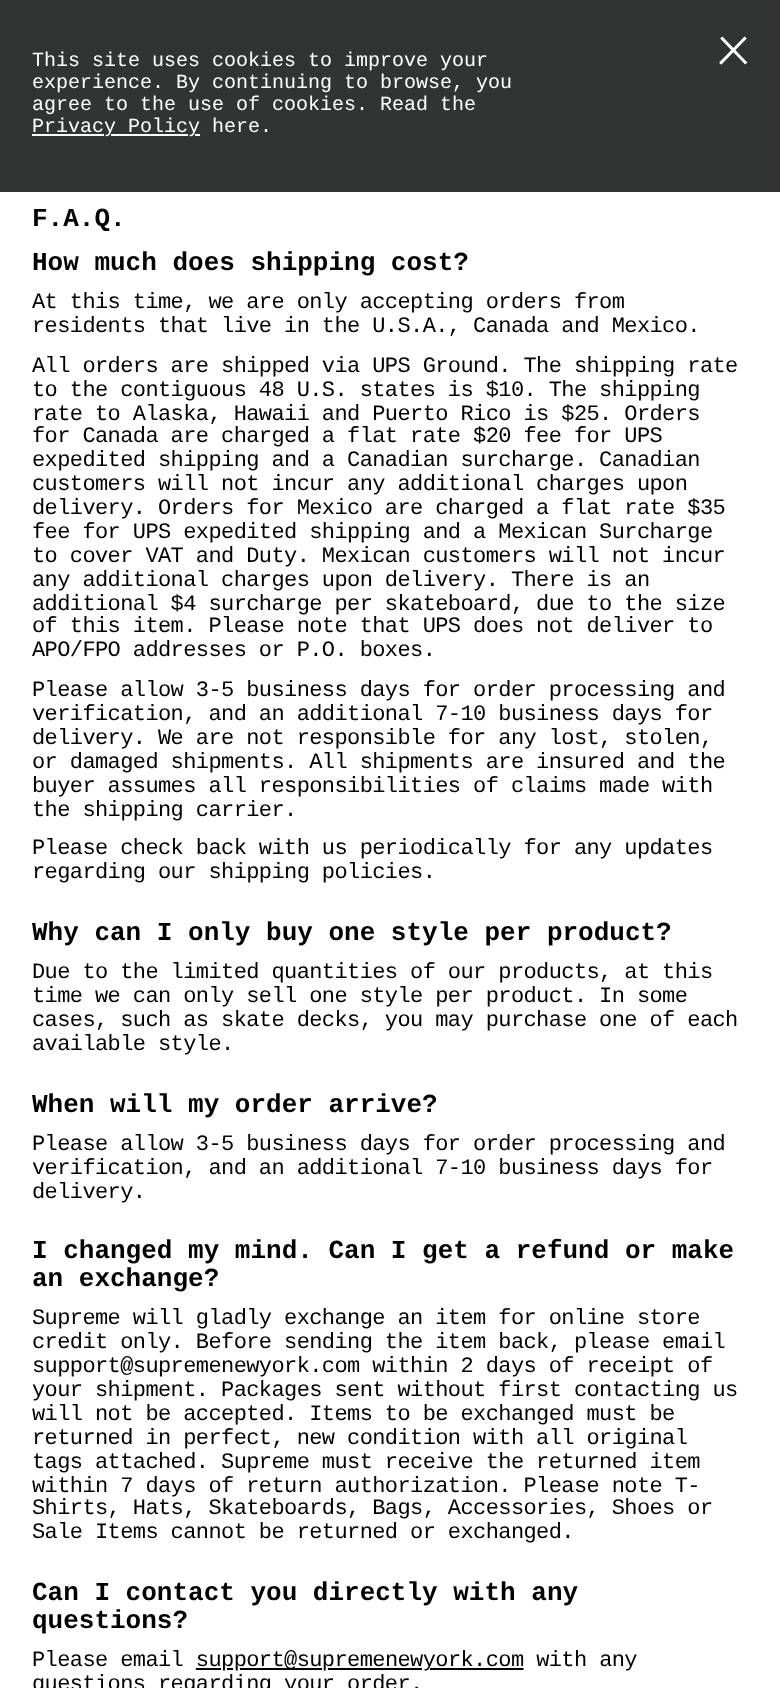
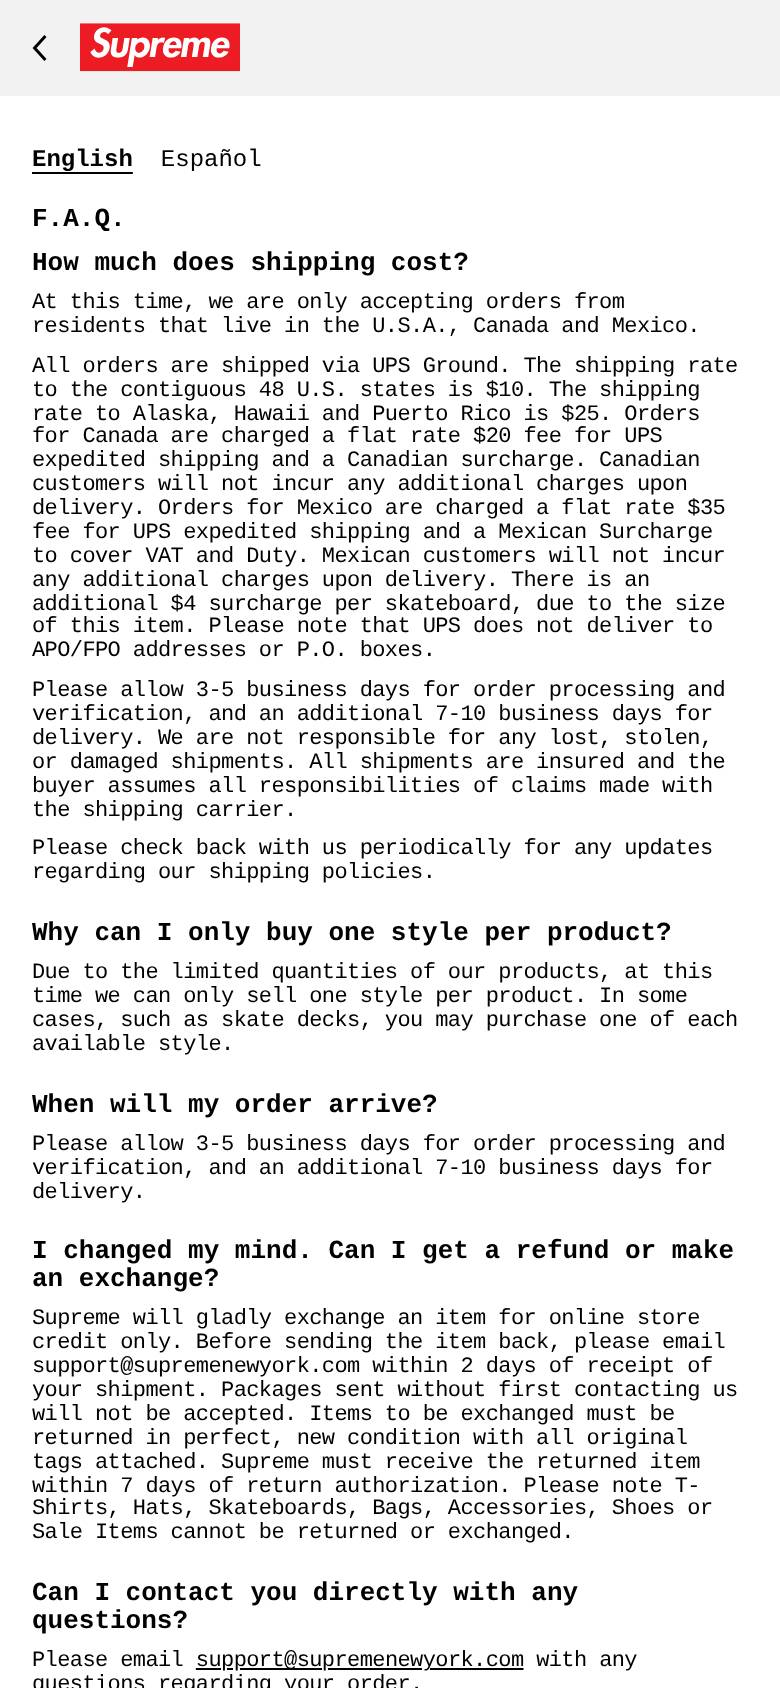
Captures sections marque & drop (agent terminé)
Claude-Session: https://claude.ai/code/session_01Ftz5kvmxR8eofxjoGgk2QF

Changed region(s): [[0.0, 0.0, 1.0, 0.1232]]

diff --git a/research/sections/notes-marque.md b/research/sections/notes-marque.md
@@ -1,0 +1,95 @@
+# Benchmark sections marque & drop — notes
+
+Captures du 01/11/2026. Mobile = 390×844 (iPhone UA, fr-FR) ; desktop = 1440×900. Fichiers : `<section>/<marque>-m.jpg` / `-d.jpg` (`-2`, `-menu`, `-intro` = vues supplémentaires).
+Attention : l'IP de sortie est géolocalisée US → plusieurs sites servent leur store US (Vollebak, Palace, Stutterheim, Supreme : prix en $).
+Le fichier `11-faq/chromaride-m.jpg` ne vient pas de cette passe (autre agent) : je n'y ai pas touché.
+
+---
+
+## 01-header-annonce
+
+| marque | fichier(s) | URL | ce qui est fort | comment l'adapter à notre marque/cible | à éviter |
+|---|---|---|---|---|---|
+| Corteiz | corteiz-m.jpg, corteiz-m-menu.jpg, corteiz-d.jpg | https://www.corteiz.com/ | Header noir à 3 éléments (burger jaune / logo centré / panier), avec la même couleur d'accent partout : très identitaire et lisible au pouce. | Burger, étoile 4 branches centrée, sac. Une seule couleur d'accent, celle qui « apparaît sous la pluie », sur fond noir. | Le menu plein écran avec 15 catégories : on vend un seul produit, donc 3–4 liens maximum. |
+| Entire Studios | entirestudios-m.jpg, entirestudios-m-menu.jpg, entirestudios-d.jpg | https://www.entirestudios.com/ | Header 100 % texte en minuscules (« menu · entire studios · usd · bag (0) ») sous une barre d'annonce monospace « FW26. shop the new collection ». | Barre d'annonce monospace façon terminal : « DROP 01 — précommandes ouvertes · 4 jours ». Header en texte seul : ça fait marque indé, pas template Shopify. | Les caractères trop petits et trop gris : sur mobile en plein soleil (riders), il faut du contraste. |
+| Warren Lotas | warrenlotas-m.jpg, warrenlotas-d.jpg | https://www.warrenlotas.com/ | Le champ email est intégré DANS la barre d'annonce (« EMAIL FOR DROP ALERTS → »), avec une croix pour fermer. | Idéal en phase waitlist : « Accès anticipé au drop → [email] » dans la barre du haut, refermable. | Faire cohabiter ça avec une pop-up newsletter : on garde un seul point de capture. |
+| Pas Normal Studios | pasnormal-m.jpg, pasnormal-d.jpg | https://pasnormalstudios.com/eu | Le marquee d'annonce porte le teaser du prochain drop (« x Salomon coming soon. Sign up ») par-dessus un header transparent posé sur la photo. | Marquee : « Drop 01 dans 3j 14h — Rejoins la liste ». Header transparent sur le hero vidéo de pluie. | Mettre 3 messages qui défilent (promo, livraison, teaser) : on garde le seul message du drop. |
+| Broken Planet | brokenplanet-m.jpg, brokenplanet-d.jpg | https://www.brokenplanet.com/ | Fond anthracite, logo custom, barre d'annonce rose courte (« Free Shipping Over $200+ »), drapeau pays + sac. | Utile pour l'idée « livraison offerte FR » sur une ligne et le drapeau FR rassurant. | La barre d'onglets catégories, inutile en mono-produit. |
+
+## 02-hero
+
+| marque | fichier(s) | URL | ce qui est fort | comment l'adapter à notre marque/cible | à éviter |
+|---|---|---|---|---|---|
+| ICON Motosports | icon-m.jpg, icon-m-2.jpg, icon-d.jpg, icon-d-2.jpg | https://www.rideicon.com/ | Hero cinématique nocturne et animé (moto, phares, flou de vitesse), avec le logotype « MIDNIGHT » en chrome/feu et un CTA filaire. | C'est notre univers rider : boucle vidéo de nuit, pluie + éclairage urbain, la veste noire qui se colore. Titre court en gros, un seul CTA. | Le 2e bloc catégorie (« /HELMETS ») collé sous le hero : chez nous, enchaîner directement sur l'effet. |
+| Rains | rains-m.jpg, rains-d.jpg | https://fr.rains.com/ | Typo géante (« Winter: Volume I ») sur le mannequin, sous-titre court, 2 boutons pilule. | Typo XXL du type « NOIR. JUSQU'À LA PLUIE. » sur le porté. Sur mobile, une ligne de typo qui déborde volontairement. | Deux CTA (femme/homme) : on garde « Rejoindre le drop » / « Précommander » seul. |
+| Vollebak | vollebak-m.jpg, vollebak-m-2.jpg, vollebak-d.jpg, vollebak-d-2.jpg | https://vollebak.com/ | Produit seul sur aplat de couleur saturée (jaune) avec une accroche à angle narratif (« Welcome Back to the Stone Age »). | Après le hero sombre, un bloc « veste sur aplat » qui révèle la couleur cachée : ça montre l'effet avant/après sans texte. | Les pop-ups d'inscription qui recouvrent le hero au bout de 8 s (vu en capture). |
+| Hellstar | hellstar-m.jpg, hellstar-m-2.jpg, hellstar-d.jpg, hellstar-d-2.jpg | https://hellstar.com/ | Vidéo sombre très montée (flou, feu) avec un nom en néon rouge (« MAKAI LEMON ») : énergie streetwear. | Typo néon/rétroéclairée sur fond noir pour le nom du drop. Montage rythmé façon TikTok dans les 3 premières secondes. | Les frames floues : sur mobile, la 1re image doit être nette et lisible (vérifié : -m.jpg est flou). |
+| Entire Studios | entirestudios-m.jpg, entirestudios-m-2.jpg, entirestudios-d.jpg, entirestudios-d-2.jpg | https://www.entirestudios.com/ | Vidéo éditoriale claire, titre « HUGO X ES » en mono fin, CTA pilule discret. | Inspiration pour la version « lookbook » (portés en studio) quand le drop est fermé. | Le titre fin blanc sur fond clair : lisibilité faible sur mobile. |
+
+## 03-drop-compteur
+
+Aucun compte à rebours qui défile en direct trouvé le 01/11/2026 sur les sites testés. Les références ci-dessous sont les mécaniques réelles les plus proches : date/heure, horloge live, compteur d'acheteurs, page « SOON », sold-out.
+
+| marque | fichier(s) | URL | ce qui est fort | comment l'adapter à notre marque/cible | à éviter |
+|---|---|---|---|---|---|
+| Travis Scott (Cactus Jack shop) | travisscott-soon-m.jpg, travisscott-soon-d.jpg | https://shop.travisscott.com/ | Page de pré-drop ultra nue : logo, « SOON », email + téléphone (SMS) + case CGU, « SIGN UP ». Zéro distraction. | Notre page waitlist : étoile, « DROP 01 — BIENTÔT », email + SMS (les riders ratent les mails), puis un compteur au-dessus. | Le vide total sans visuel produit : ajouter une boucle de l'effet pluie pour donner envie. |
+| MSCHF — King Solomon's Baby | mschf-kingsolomonsbaby-m.jpg, mschf-kingsolomonsbaby-d.jpg | https://kingsolomonsbaby.com/ | Compteurs façon tableau d'affichage (« NUMBER OF BUYERS 1000 », « EACH BUYER WILL PAY $100 »), bandeau « SALE ENDED 07/10/25 5PM EST » et bouton « Sold Out » grisé. | Compteur de stock réel en chiffres segmentés (« 312 / 500 vestes ») + fin du drop en date/heure Paris ; même module qui bascule en « SOLD OUT ». | Le concept trop conceptuel/arty : chez nous, le compteur doit rester factuel (vraie quantité). |
+| MSCHF — liste des drops | mschf-upcoming-m.jpg, mschf-upcoming-d.jpg | https://mschf.com/ | Liste numérotée de tous les drops (#120…#125) suivie des drops futurs en « ?????????? » : mystère + historique. | Page « Drops » : #01 = la veste hydrochromique, #02/#03 = « ??????? ». Ça installe la marque comme une série de drops. | Le défilement infini de 125 items, illisible sur mobile. |
+| Nike SNKRS — Prochaines sorties | nike-snkrs-upcoming-m.jpg, nike-snkrs-upcoming-d.jpg | https://www.nike.com/fr/launch/upcoming | Calendrier en français « Disponible le 06/11 à 9:00 » + bouton noir « Me prévenir » sur chaque carte. Desktop : grosses dates (6 nov.). | Formulation et format à copier pour le FR : « Ouverture le 14/11 à 18:00 » + « Me prévenir » (email/SMS). | L'interface très corporate/blanche : à transposer en dark. |
+| Supreme — Preview FW26 | supreme-preview-m.jpg, supreme-preview-d.jpg | https://www.supreme.com/previews/fallwinter2026 | Preview de toute la saison en mosaïque avant les drops ; horloge live « 11/01/2026 02:15am NYC » sous le logo (desktop). | Une horloge « HEURE DE PARIS 18:42:07 » sous le logo pendant le drop crée l'urgence sans compteur agressif ; mosaïque des coloris révélés. | La mosaïque de 50 vignettes : on n'a qu'un produit, donc plutôt 6 à 9 frames de l'effet. |
+| Palace — mur sold-out | palace-soldout-m.jpg | https://usa.palaceskateboards.com/collections/all | Grille où chaque produit affiche « SOLD OUT » sous le nom : la preuve de rareté sert de contenu. | État après le drop : tailles barrées + « ÉPUISÉ — Drop 02 bientôt » + capture email, plutôt qu'une page vide. | Laisser le sold-out sans action suivante (pas de waitlist). |
+| Pas Normal Studios x Salomon | pasnormal-salomon-teaser-m.jpg, pasnormal-salomon-teaser-d.jpg | https://pasnormalstudios.com/eu | Hero teaser « Coming soon… limited edition » + « DISCOVER MORE », relayé dans la barre d'annonce. | Teaser J-7 : hero vidéo + « Bientôt. Édition limitée. » + inscription. Cohérent du header jusqu'au hero. | CTA « Discover more » vague : préférer « Accès anticipé ». |
+| Vollebak — advance access | vollebak-advanceaccess-m.jpg | https://vollebak.com/ | Pop-up « Sign up for advance access to every new release » : bon wording de l'accès anticipé, bouton rouge plein. | Le wording « Accès anticipé à chaque drop » plutôt que « Newsletter -10 % ». | La pop-up au bout de 8 s par-dessus le hero : on la remplace par un bandeau ou par la page waitlist. |
+
+## 09-preuve-sociale
+
+| marque | fichier(s) | URL | ce qui est fort | comment l'adapter à notre marque/cible | à éviter |
+|---|---|---|---|---|---|
+| Represent | represent-reviews-m.jpg, represent-reviews-d.jpg | https://representclo.com/pages/reviews | Note énorme « 4.9 ★ » + « Based on 12171 reviews », onglets Site/Product, cartes « Verified Buyer » + produit concerné. | Au lancement, pas encore d'avis : prévoir le module (note + « acheteur vérifié ») pour le drop 02. En attendant, les retours des testeurs riders. | Un faux volume d'avis au lancement : risque de crédibilité et légal (DGCCRF). |
+| Vollebak | vollebak-press-m.jpg, vollebak-press-d.jpg, vollebak-press-d-2.jpg | https://vollebak.com/ | Carrousel presse : une citation courte (« Brilliantly bonkers ») + logo du média (THE TIMES, WIRED, TIME) et le titre « 2X winners of… ». | Citations courtes de médias/créateurs FR (Konbini, Hypebeast FR, un youtubeur moto) avec logo en blanc sur noir, une seule à la fois. | Des logos sans citation (mur de logos) : moins crédible et moins « marque ». |
+| Alo Yoga | alo-ugc-m.jpg, alo-ugc-d.jpg | https://www.aloyoga.com/ | « AS SEEN ON YOU — styled by you » : carrousel de photos clients avec @handle et hotspots « + » shoppables. | Carrousel « VU SOUS LA PLUIE » : vidéos TikTok/IG des acheteurs (avant/après mouillé), avec @handle. C'est le format natif de notre cible. | Les photos lifestyle lisses : nous, il faut du brut filmé au téléphone, sur le scooter. |
+| Corteiz — Archive | corteiz-archive-m.jpg, corteiz-archive-d.jpg | https://www.corteiz.com/blogs/archive | Journal photo de la communauté (collabs, events, riders sur moto) en grille noire, dates monospace jaunes. | Page « ARCHIVE / COMMUNAUTÉ » : photos datées des rides, des meetups et du drop, au même style mono + accent. | Une page sans aucun texte de contexte : ajouter une légende d'une ligne. |
+
+## 10-manifeste
+
+| marque | fichier(s) | URL | ce qui est fort | comment l'adapter à notre marque/cible | à éviter |
+|---|---|---|---|---|---|
+| Vollebak | vollebak-about-m.jpg, vollebak-about-m-2.jpg, vollebak-about-d.jpg | https://vollebak.com/en-us/pages/about-us | Vidéo « Play » géante, puis une phrase-manifeste énorme (« We design clothes for the next century, not the next season ») et un court paragraphe fondateurs. | Une phrase forte en très gros (« Noire par défaut. Vivante sous la pluie. »), puis 3 lignes sur l'origine. | Le texte long à la suite : sur mobile, max 60–80 mots. |
+| ICON Motosports | icon-about-m.jpg, icon-about-d.jpg, icon-about-d-2.jpg | https://www.rideicon.com/about-us | Ton « riders pour riders » (« unforgiving asphalt… inattentive cagers… Ride Among Us »), photo moto pleine largeur, fond rayé. | Parler la langue du trajet urbain : bouchons, pluie, périph, livreurs ; une signature-slogan en fin de texte. | Le pavé centré en corps moyen : le découper en phrases courtes. |
+| Deus Ex Machina | deus-about-m.jpg, deus-about-m-2.jpg, deus-about-d.jpg | https://deuscustoms.com/pages/about | Manifeste numéroté (1, 2, 3, 4) en paragraphes courts, alterné avec des photos d'atelier et de culture moto. | Structure « 4 règles de la marque » numérotées, chacune avec une photo (pluie, nuit, ville, communauté). | Le bouton latéral « GET 20% OFF » qui casse le ton manifeste. |
+| Stutterheim | stutterheim-about-m.jpg, stutterheim-about-d.jpg | https://stutterheim.com/en-us/about-us | Visuel encre/tampon bleu très graphique + « We are the original premium raincoat » : positionnement en une phrase. | Notre phrase de positionnement : « La première veste de pluie qui change de couleur », avec un visuel graphique (empreinte de pluie). | Le paragraphe justifié en petit corps, peu lisible sur mobile. |
+| Rains | rains-world-m.jpg, rains-world-m-2.jpg, rains-world-d.jpg | https://fr.rains.com/pages/company | Hub éditorial « Rains World » : intro de marque + filtres pilule (Latest/Retail/Runway/Stores) + grilles d'images. | Plus tard (après plusieurs drops), un hub « Monde » : drops, rides, coulisses. Au lancement, une seule page suffit. | Le hub vide ou trop corporate au lancement. |
+| Heliot Emil | heliotemil-about-m-intro.jpg, heliotemil-about-d-intro.jpg | https://heliotemil.com/pages/about | Manifeste en accordéon numéroté (01 Introduction / 02 Foundation / 03 Future) : minimal, très mode. | Pour garder le manifeste court sur mobile : 01 Pourquoi / 02 La technologie / 03 Le drop, en accordéon. | Le texte gris minuscule, trop discret pour une cible TikTok. |
+
+## 11-faq
+
+| marque | fichier(s) | URL | ce qui est fort | comment l'adapter à notre marque/cible | à éviter |
+|---|---|---|---|---|---|
+| Satisfy | satisfy-m.jpg, satisfy-m-2.jpg, satisfy-d.jpg | https://satisfyrunning.com/pages/faq | Questions en capitales grasses, accordéons « + / – », sections (ORDERS, SHIPPING) en gros titres : très lisible au pouce. | Notre format FAQ : catégories DROP / PRÉCOMMANDE / EFFET & ENTRETIEN / LIVRAISON, questions en capitales grasses blanches sur noir. | Les réponses en italique petit corps. |
+| Supreme | supreme-m.jpg, supreme-d.jpg | https://us.supreme.com/pages/faq | FAQ brute en monospace, réponses franches, dont « Why can I only buy one style per product? Due to the limited quantities… ». | Reprendre la franchise sur les règles du drop : « Pourquoi 1 veste par personne ? », « Que se passe-t-il si c'est épuisé ? ». | Le mur de texte sans accordéon sur mobile. |
+| Awake NY | awakeny-m.jpg, awakeny-m-2.jpg, awakeny-d.jpg | https://awakenyclothing.com/pages/faq | FAQ sobre en capitales fines, sous-navigation (FAQs/About/Contact…), et footer bleu électrique plein avec le logo-globe. | Pied de FAQ en aplat de notre couleur révélée (le seul bloc coloré du site, comme la pluie qui révèle). | Les questions en très petit corps sur mobile. |
+| Pas Normal Studios | pasnormal-m.jpg, pasnormal-d.jpg | https://pasnormalstudios.com/eu/pages/faq | Gros titre « Frequently Asked Questions » + chapeau rassurant + renvoi au service client, puis sections avec « + ». | Chapeau d'une phrase : « Une question sur le drop ? On répond en moins de 24 h », avec un lien WhatsApp/Instagram DM. | Rien de majeur ; c'est juste un peu neutre. |
+| Daily Paper | dailypaper-m.jpg, dailypaper-d.jpg | https://dailypaperclothing.com/pages/faq | FAQ en français avec barre de recherche, catégories (Sale Périodes, Produits…), rangées alternées grises et réponse ouverte. | Bonne référence de formulation FR (« Le produit que je recherche est en rupture de stock. Sera-t-il réapprovisionné ? ») à adapter au drop. | Le badge flottant « Get 10% Off » qui masque les questions. |
+
+## 12-footer-newsletter
+
+| marque | fichier(s) | URL | ce qui est fort | comment l'adapter à notre marque/cible | à éviter |
+|---|---|---|---|---|---|
+| Corteiz | corteiz-m.jpg, corteiz-d.jpg | https://www.corteiz.com/ | Footer minuscule et centré : icône Instagram, ARCHIVE, NEWSLETTER, SHIPPING POLICY, TERMS, en mono jaune sur noir. | Un footer mono-produit doit faire 5 lignes : IG/TikTok, Drops, FAQ, Livraison & retours, CGV/mentions. | Le lien « Newsletter » caché : chez nous, le champ email reste visible. |
+| ICON Motosports | icon-m.jpg, icon-m-2.jpg, icon-d.jpg | https://www.rideicon.com/ | Footer noir à rayures diagonales, newsletter nommée « LIMITER NEWS & UPDATES » avec un champ arrondi, mur Instagram juste au-dessus. | Donner un nom à la liste (« LA LISTE / RAIN CLUB »), texture diagonale = pluie, mur UGC juste au-dessus du footer. | Les 4 colonnes de liens catalogue. |
+| Pando Moto | pandomoto-m.jpg, pandomoto-d.jpg | https://pandomoto.com/ | « ENGINEERED BY RIDERS© / JOIN RIDERS — updates on drops, sales & events », champ souligné + bouton noir plein, accordéons de liens sur mobile. | Le wording rider est parfait pour nous : « REJOINS LES RIDERS — accès anticipé aux drops ». Accordéons de liens sur mobile. | Le fond gris clair, hors de notre univers dark. |
+| Trapstar | trapstar-m.jpg, trapstar-d.jpg | https://uk.trapstarlondon.com/ | « NOW, THE NEXT CHAPTER BEGINS. IT'S A SECRET » + « SIGN UP TO BE THE FIRST TO KNOW » + « Join the list » : la newsletter vendue comme un secret. | Bloc avant le footer : « LE PROCHAIN DROP EST UN SECRET. Sois le premier au courant. » + email + SMS. | Les mentions légales trop longues sous le bouton : 1 ligne + lien suffit (RGPD). |
+| Supreme | supreme-m.jpg, supreme-d.jpg | https://us.supreme.com/pages/shop | Footer en liens texte minuscules sur une ligne (shop, preview, lookbook, news, f.a.q., mailing list) et horloge NYC live (desktop). | Footer texte minimal + horloge « Paris » : clin d'œil drop. | La liste de 13 catégories au-dessus (mobile). |
+| Stutterheim | stutterheim-m.jpg | https://stutterheim.com/en-us/about-us | Newsletter avec segmentation par cases (Women/Men/All) + gros tampon « Manufactured by STUTTERHEIM 2010 » qui signe le footer. | Un tampon de marque en fin de page (étoile + « Drop 01 — Paris 2026 ») ; segmentation possible par véhicule (scooter/moto/vélo). | Trop de champs : email seul, plus un SMS optionnel. |
+| MSCHF (store) | mschf-store-m.jpg, mschf-store-d.jpg | https://store.mschf.com/ | Le footer pousse ses canaux propres (MSCHF APP, STORE APP, INSTA, TIKTOK, SNAP) en couleurs, au-dessus des liens légaux grisés. | Mettre TikTok/Instagram en premier et en couleur dans le footer : c'est d'où vient la cible. | Le texte gris clair illisible des liens légaux. |
+
+---
+
+## Sites bloqués / inutilisables
+- sp5der.com et www.sp5der.com : ERR_TUNNEL_CONNECTION_FAILED (2 essais), ignoré.
+- sickobfp.com : ERR_TUNNEL_CONNECTION_FAILED.
+- cpfm.ws (Cactus Plant Flea Market), minus-two.com, hiddenny.com : 502 « upstream request failed ».
+- thehouseofdrew.com : « This store is unavailable » ; unknownlondon.com : site expiré.
+- Help centers Zendesk de Rains (rains.zendesk.com) et de Represent (representclohelp.zendesk.com) : affichés sans CSS, inexploitables.
+- Pas de FAQ ni de vrai footer trouvés chez Entire Studios (/pages/faq → 404) ; MSCHF n'a pas de FAQ (/faq → 404) ; Yeezy.com = simple grille produits, sans footer ni drop en cours.
+- Corteiz : pas de page mot de passe active aujourd'hui (/password redirige vers la boutique ouverte).
